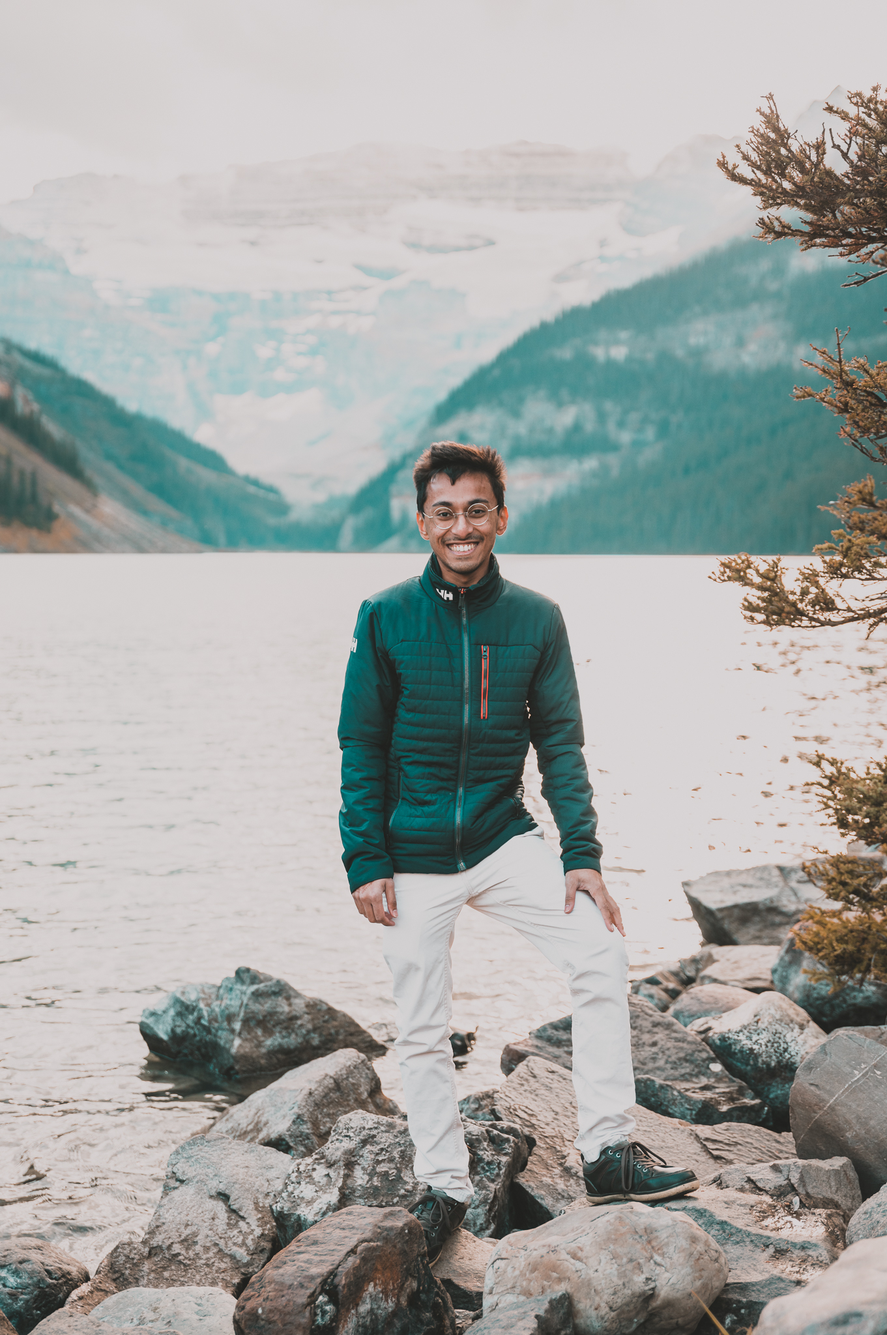
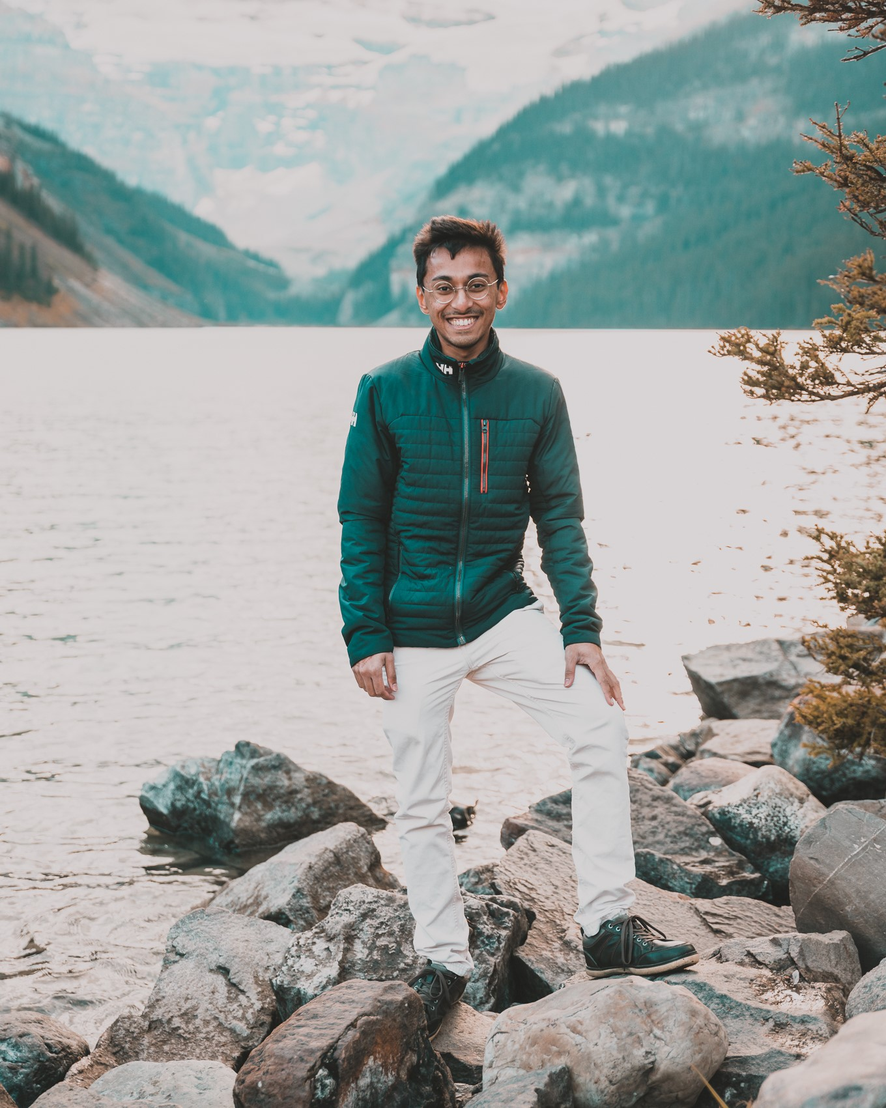
Styling update

diff --git a/pages/index.vue b/pages/index.vue
@@ -57,20 +57,19 @@ export default defineComponent({
     
     <v-row >
       
+      <!-- image -->
       <v-col cols="12" md="4"
-      class="mobilePhotos ">
+      class=" d-flex align-center justify-center pt-0">
 
         <v-img 
         transition="fab-transition"
-        class="imgStyles ml-1"
+        class="imgStyles ml-1 mobilePhotos"
+        height="792"
         
-        
-        
+        contain
         :src="profilePicture" 
         :lazy-src="lazyPicture"
-        
         >
-
 
         <template v-slot:placeholder>
           <div class="d-flex align-center justify-center fill-height">
@@ -85,25 +84,31 @@ export default defineComponent({
 
       </v-col>
 
-      <v-col cols="12" md="8">
+      <!--text beside image -->
+      <v-col cols="12" md="8" class="topRowChunk pt-12">
         <h2 class="topHeaders">{{ name }}</h2>
-        <h4 class="topHeaders">{{ jobTitle }}</h4>
-        <p class="bio topHeaders">{{ bio }}</p>
+        <h4 class="topHeaders jobTitle">{{ jobTitle }}</h4>
+        <p class="bio topHeaders ">{{ bio }}</p>
         
-        <v-row class="pt-4 px-4">
-          <v-col cols="12" sm="6">
+       
+        <v-row class="pt-10 px-4 skillExp">
+
+          <v-col class="skillCard" cols="12" sm="6">
             <v-card elevation="3">
               <v-card-title>Skills</v-card-title>
-              <v-card-text class=" ">
+              <v-divider :thickness="4" color="error"></v-divider>
+              <v-card-text class="two-column ">
                 <ul class="a">
                   <li class="list" v-for="skill in skills" :key="skill" >{{ skill }}</li>
                 </ul>
               </v-card-text>
             </v-card>
           </v-col>
-          <v-col cols="12" sm="6">
+
+          <v-col class="experienceCard" cols="12" sm="6">
             <v-card elevation="3">
               <v-card-title>Experience</v-card-title>
+              <v-divider :thickness="4" color="error"></v-divider>
               <v-card-text class="vCardText">
                 <ul class="a">
                   <li class="list" v-for="job in jobs" :key="job.company">{{ job.title }} at {{ job.company }}</li>
@@ -112,7 +117,9 @@ export default defineComponent({
               </v-card-text>
             </v-card>
           </v-col>
+
         </v-row>
+
       </v-col>
 
        <!-- Mid page -->
@@ -138,24 +145,68 @@ export default defineComponent({
     font-family: Ubuntu;
 }
 
-.imgStyles {
-
-  box-shadow: 2px 2px 4px rgba(0, 0, 0, 0.2); /* Add a drop shadow */
-  max-width: 90%; /* Reduce the width of the image */
-  border-radius: 1%;
+.v-divider {
+  margin-left: 2%;
+  margin-right: 2%;
+  opacity: 10%;
 
 }
+
+/* Styles for large devices */
+@media (min-width: 959px) {
+
+  .imgStyles {
+
+    box-shadow: 2px 2px 4px rgba(0, 0, 0, 0.2); /* Add a drop shadow */
+    max-height: 90%; /* Reduce the width of the image */
+    border-radius: 1%;
+    /*margin-top: 10%;*/
+    
+  }
+
+  .individualChunk{
+    padding-top: 5%;
+  }
+
+  .jobTitle {
+
+    padding-top: 1.5%;
+  }
+
+  .bio {
+    padding-top: 3%;
+    font-size: 1.2rem; /* The fit it all in one page */
+  }
+
+  .skillExp {
+    
+  }
+
+  .two-column {
+    column-count: 2;
+    column-gap: 1rem; /* Adjust the gap between columns as needed */
+  }
+
+  .skillCard{
+    padding-right: 2rem;
+  }
+}
+
+
 
 /* Styles for mobile devices */
 @media (max-width: 959px) {
   .mobilePhotos {
-    max-width: 45%; /* Reduce the width of the image */
-    display: block; /* Make the image a block element */
-    margin: 0 auto; /* Center the image horizontally */
+    max-width: 50%; /* Reduce the width of the image */
+    display: none; /* Make the image a block element */
 
   }
+
+
   .bio {
     font-size: 1.0rem; /* The fit it all in one page */
+    margin-left: 2%;
+    margin-right: 2%;
 
   }
 

diff --git a/nuxt.config.ts b/nuxt.config.ts
@@ -4,7 +4,7 @@ import vuetify from "vite-plugin-vuetify";
 const title = "Sharif Sircar";
 const shortTitle = "Sharif's Website";
 const description = "My personal pet website where I have some of my photograpy photos and some of my software projects";
-const image = "https://www.sharif-sircar.com/puffin.png";
+const image = "https://www.sharif-sircar.com/puffinv2.ico";
 const url = "https://www.sharif-sircar.com/";
 
 // https://v3.nuxtjs.org/api/configuration/nuxt.config
